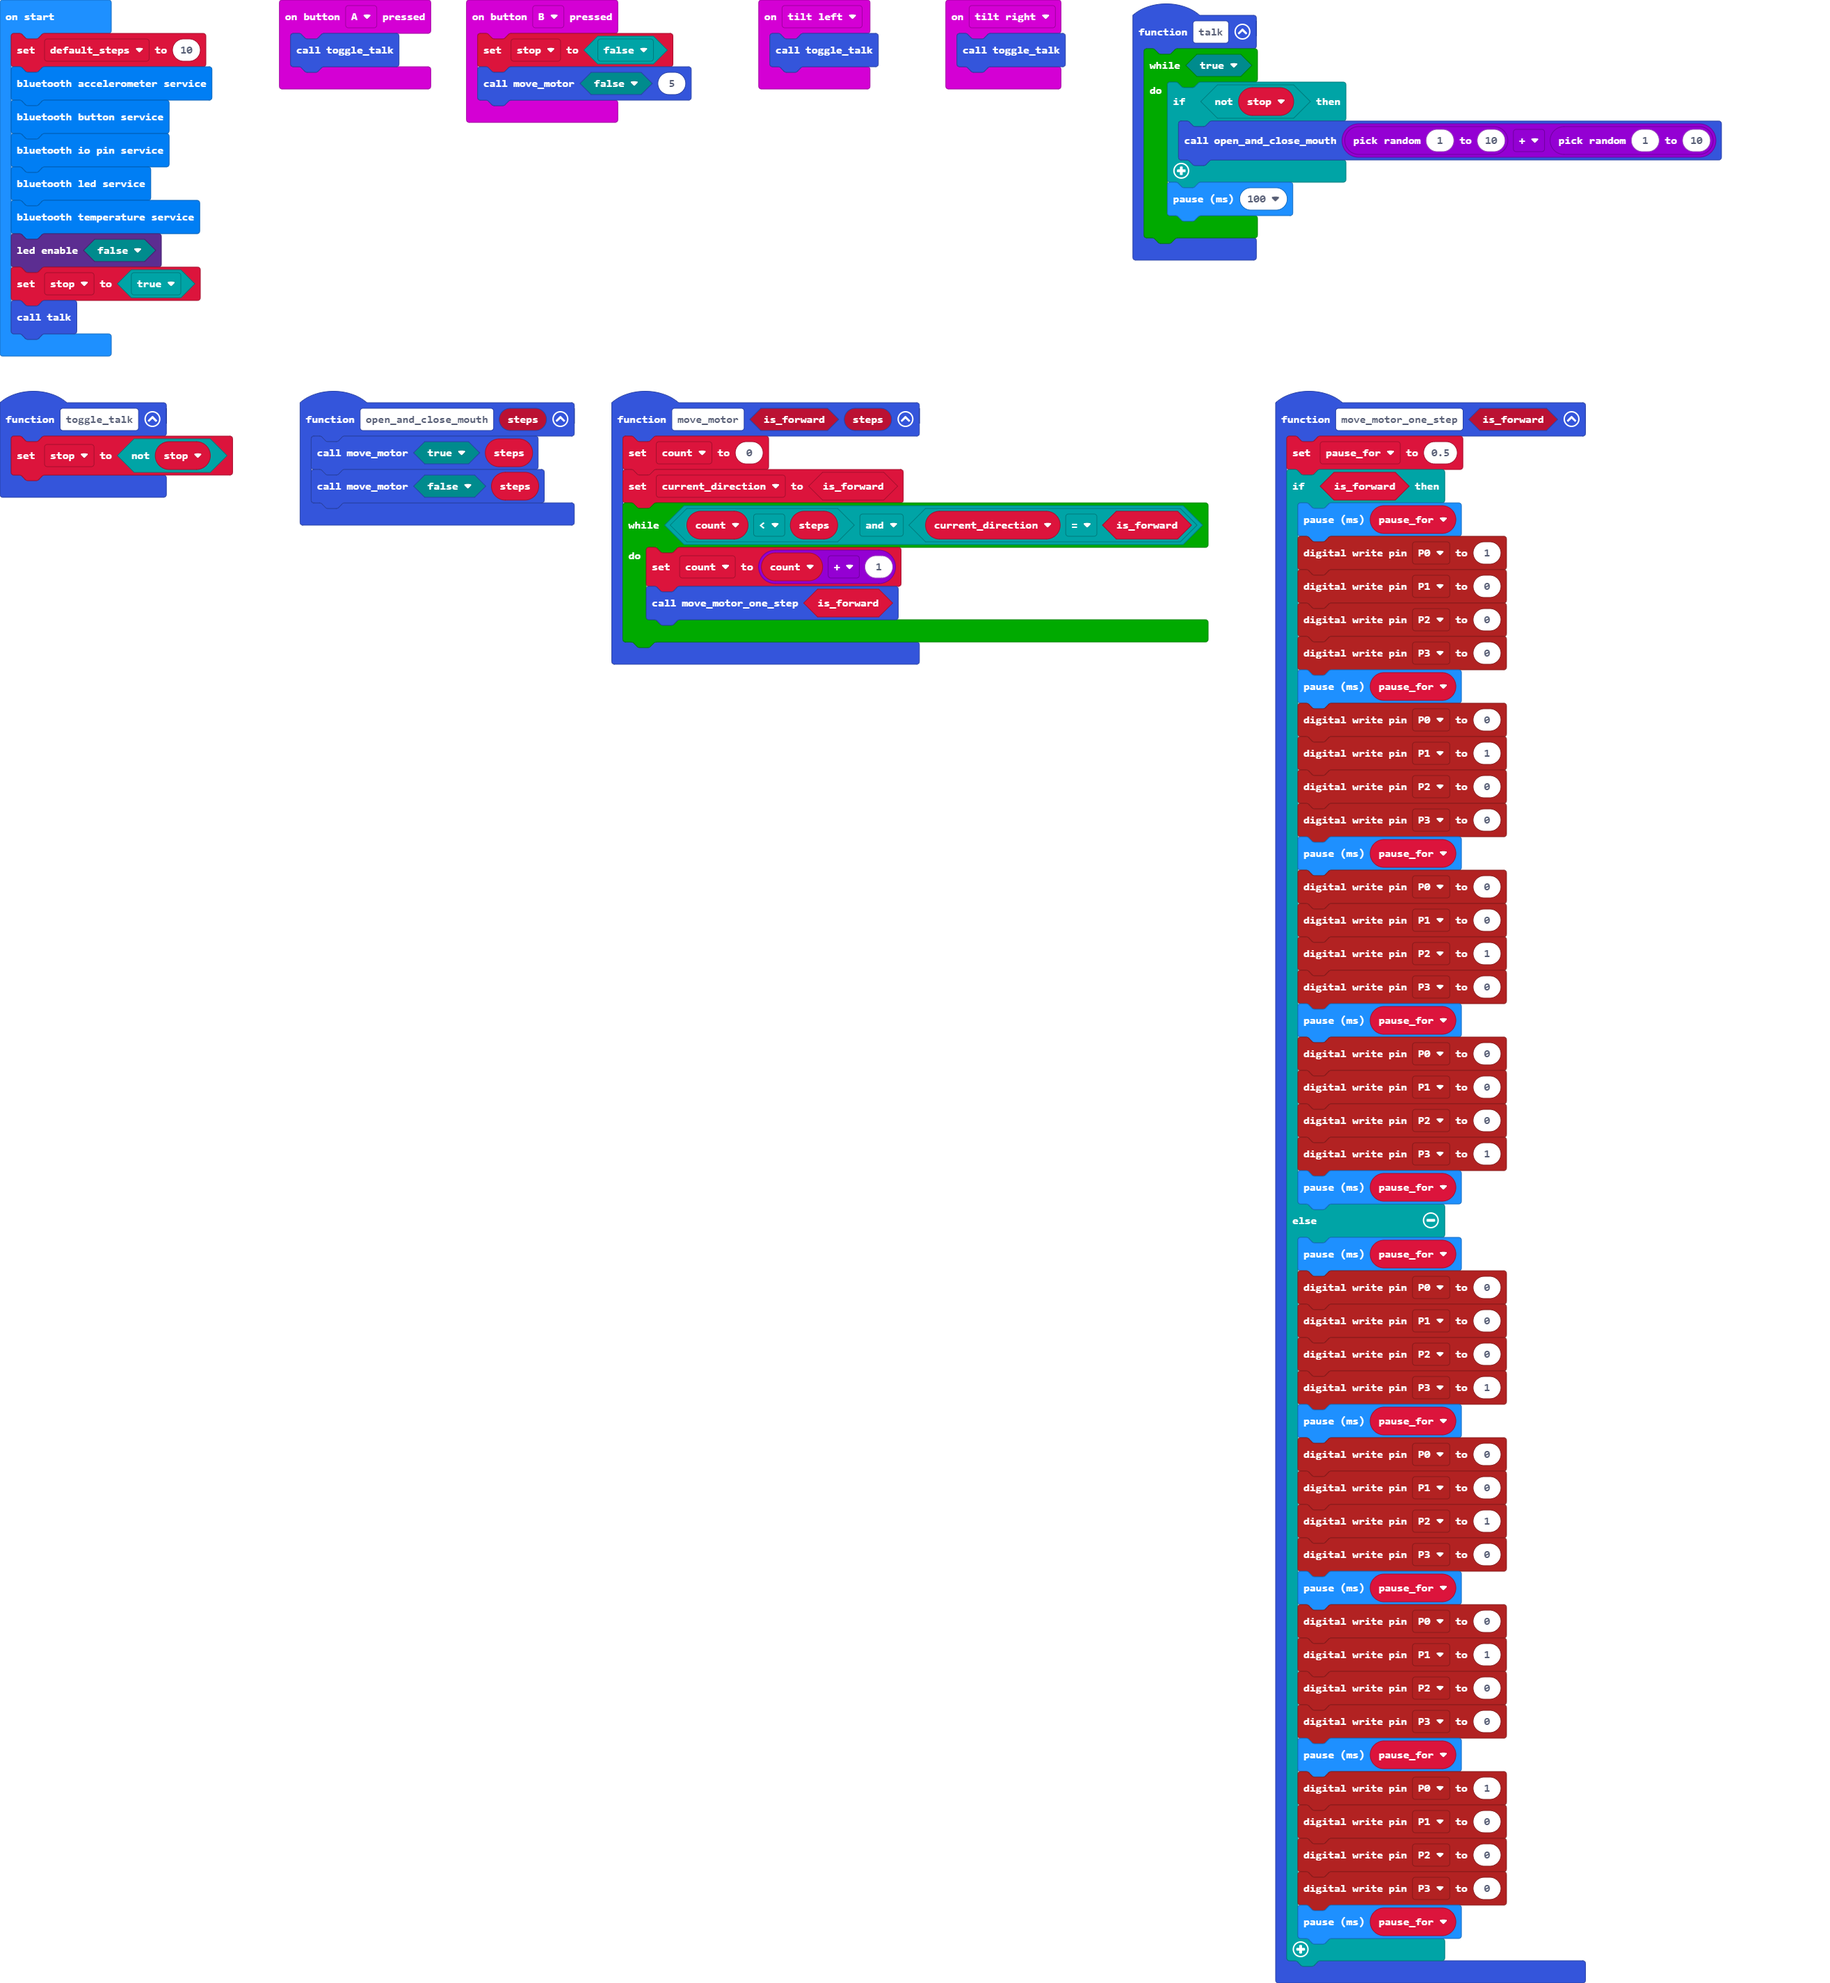
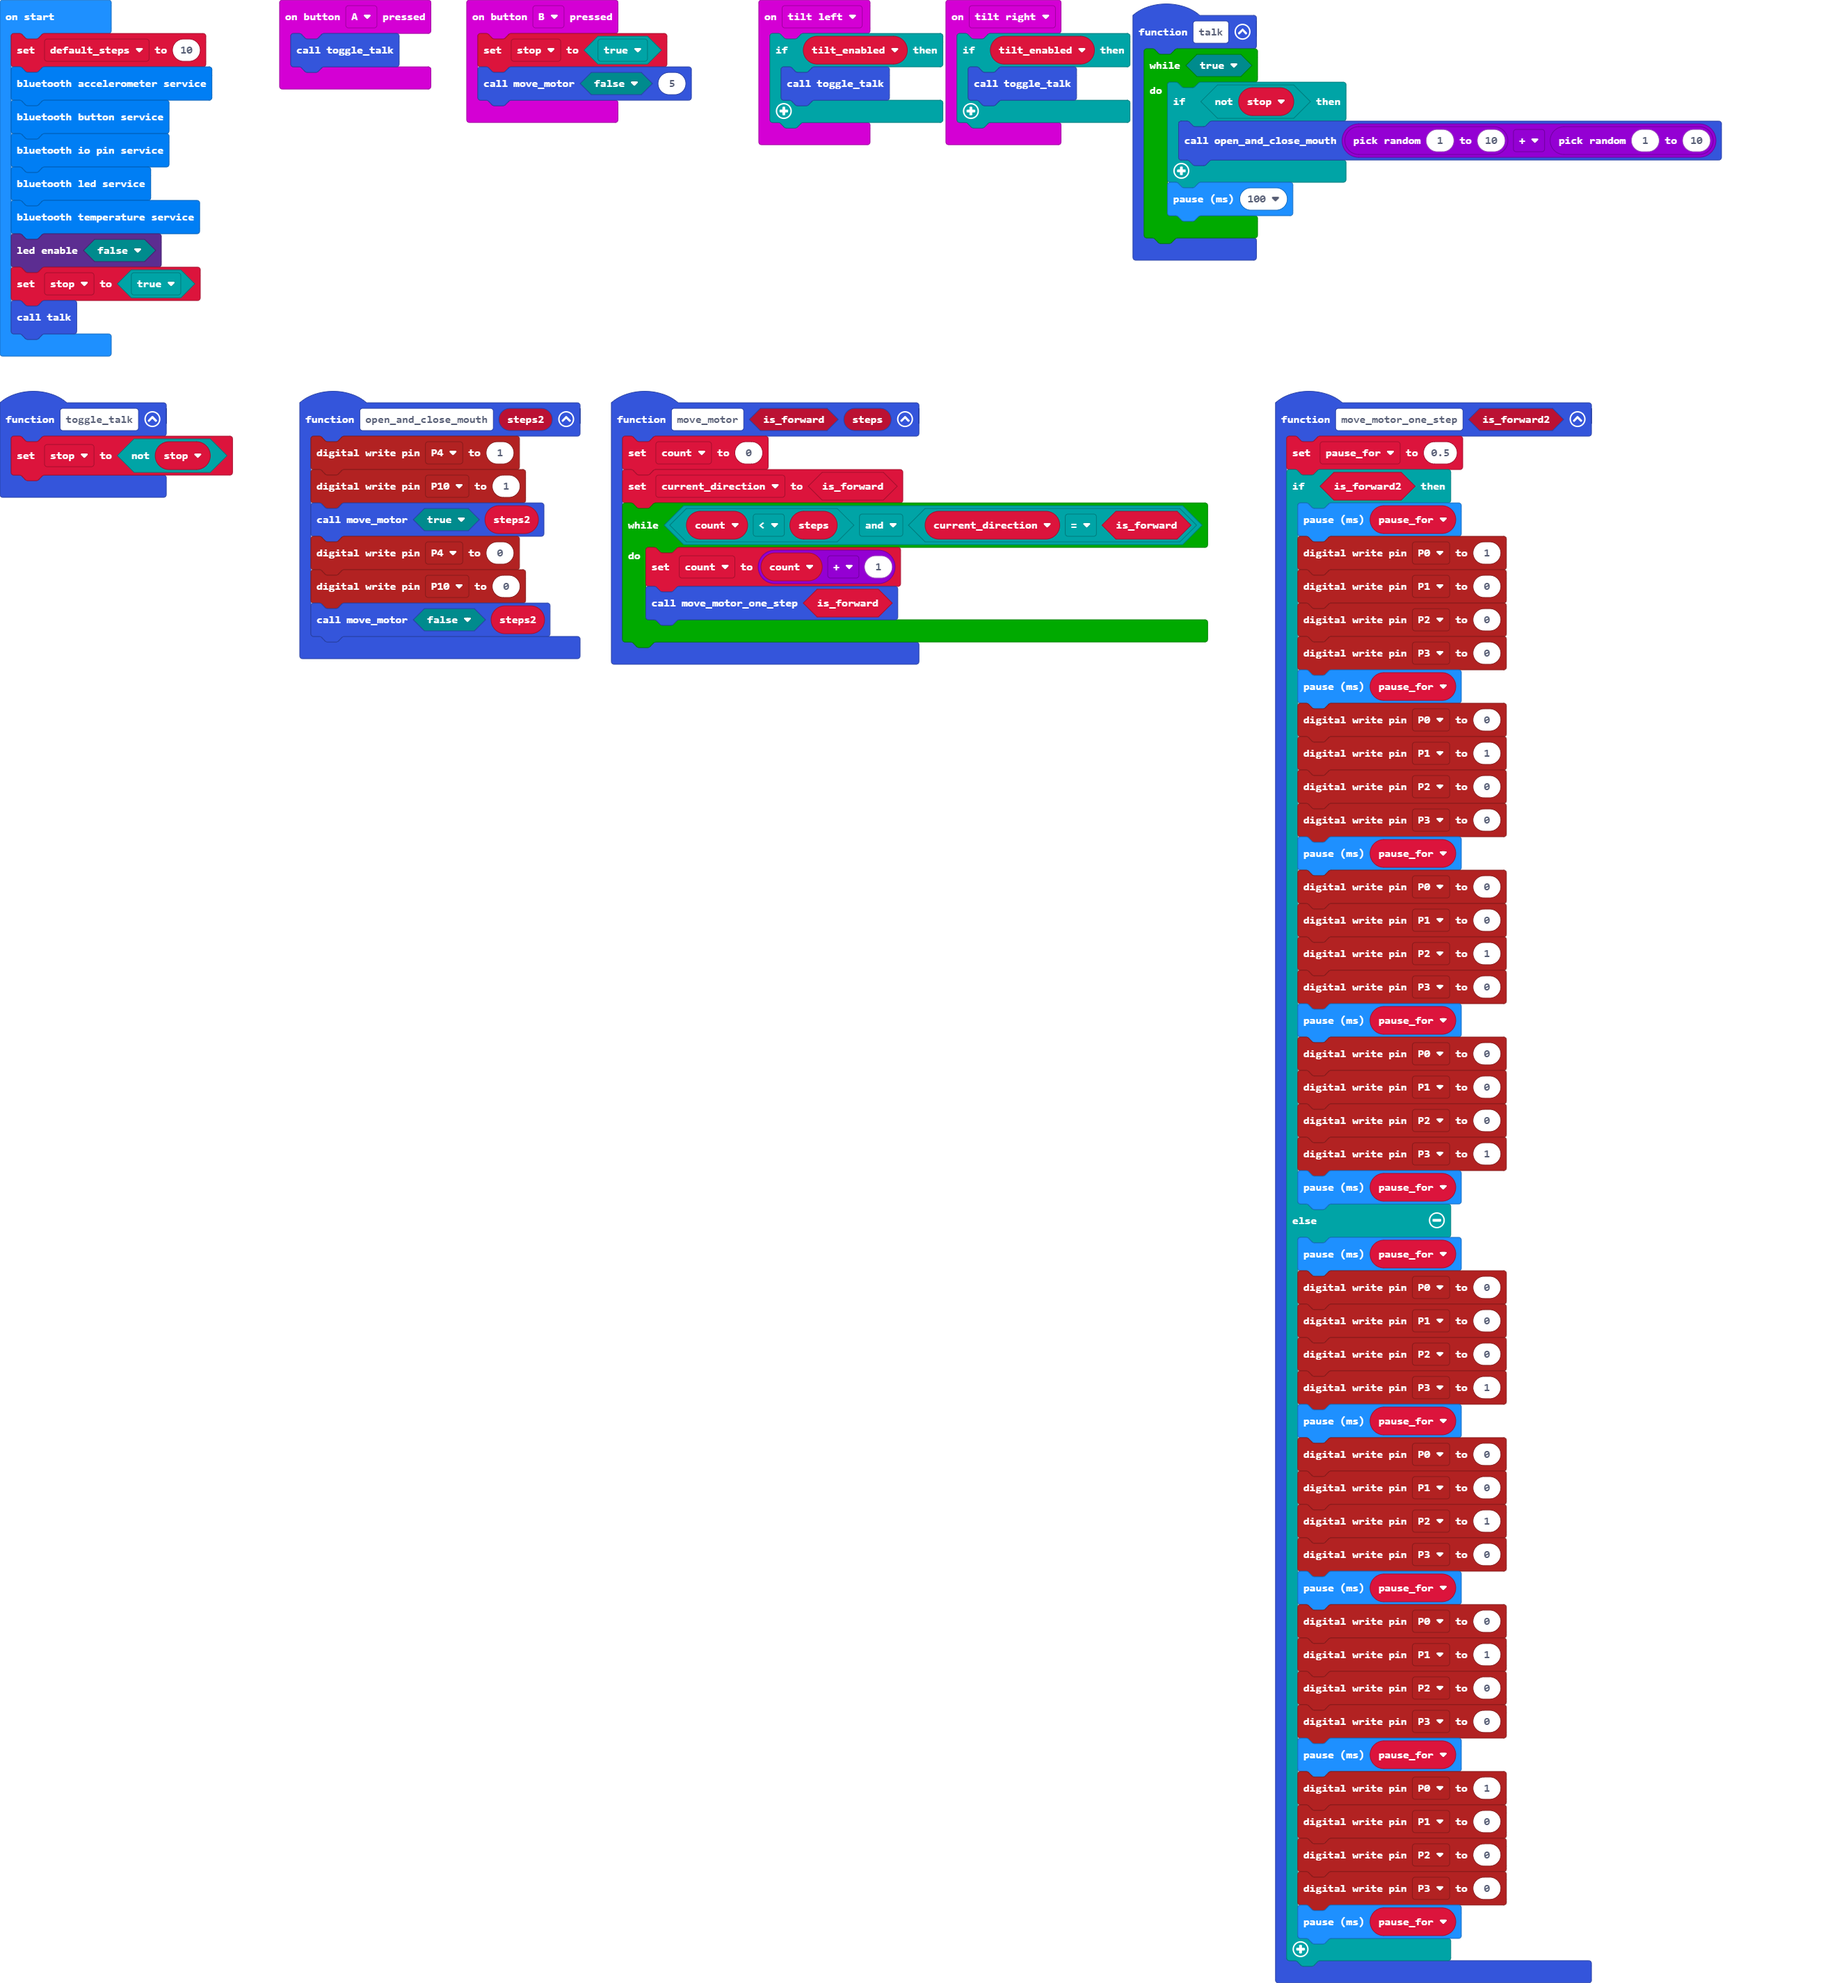
Not sure if anything changed!

diff --git a/main.ts b/main.ts
@@ -1,23 +1,3 @@
-input.onButtonPressed(Button.A, function on_button_pressed_a() {
-    toggle_talk()
-})
-input.onButtonPressed(Button.B, function on_button_pressed_b() {
-    
-    stop = true
-    move_motor(false, 5)
-})
-input.onGesture(Gesture.TiltLeft, function on_gesture_tilt_left() {
-    if (tilt_enabled) {
-        toggle_talk()
-    }
-    
-})
-input.onGesture(Gesture.TiltRight, function on_gesture_tilt_right() {
-    if (tilt_enabled) {
-        toggle_talk()
-    }
-    
-})
 function move_motor(is_forward: boolean, steps: number) {
     
     count = 0
@@ -28,6 +8,9 @@ function move_motor(is_forward: boolean, steps: number) {
     }
 }
 
+input.onButtonPressed(Button.A, function on_button_pressed_a() {
+    toggle_talk()
+})
 function move_motor_one_step(is_forward2: boolean) {
     
     pause_for = 0.5
@@ -84,6 +67,12 @@ function toggle_talk() {
     stop = !stop
 }
 
+input.onGesture(Gesture.TiltLeft, function on_gesture_tilt_left() {
+    if (tilt_enabled) {
+        toggle_talk()
+    }
+    
+})
 function talk() {
     while (true) {
         if (!stop) {
@@ -95,15 +84,30 @@ function talk() {
 }
 
 function open_and_close_mouth(steps2: number) {
+    pins.digitalWritePin(DigitalPin.P4, 1)
+    pins.digitalWritePin(DigitalPin.P10, 1)
     move_motor(true, steps2)
+    pins.digitalWritePin(DigitalPin.P4, 0)
+    pins.digitalWritePin(DigitalPin.P10, 0)
     move_motor(false, steps2)
 }
 
+input.onButtonPressed(Button.B, function on_button_pressed_b() {
+    
+    stop = true
+    move_motor(false, 5)
+})
+input.onGesture(Gesture.TiltRight, function on_gesture_tilt_right() {
+    if (tilt_enabled) {
+        toggle_talk()
+    }
+    
+})
+let tilt_enabled = 0
 let pause_for = 0
 let current_direction = false
 let count = 0
 let stop = false
-let tilt_enabled = false
 let default_steps = 10
 bluetooth.startAccelerometerService()
 bluetooth.startButtonService()
@@ -111,5 +115,5 @@ bluetooth.startIOPinService()
 bluetooth.startLEDService()
 bluetooth.startTemperatureService()
 led.enable(false)
-stop = true
+stop = false
 talk()

diff --git a/main.py b/main.py
@@ -1,23 +1,3 @@
-def on_button_pressed_a():
-    toggle_talk()
-input.on_button_pressed(Button.A, on_button_pressed_a)
-
-def on_button_pressed_b():
-    global stop
-    stop = True
-    move_motor(False, 5)
-input.on_button_pressed(Button.B, on_button_pressed_b)
-
-def on_gesture_tilt_left():
-    if tilt_enabled:
-            toggle_talk()
-input.on_gesture(Gesture.TILT_LEFT, on_gesture_tilt_left)
-
-def on_gesture_tilt_right():
-    if tilt_enabled:
-        toggle_talk()
-input.on_gesture(Gesture.TILT_RIGHT, on_gesture_tilt_right)
-
 def move_motor(is_forward: bool, steps: number):
     global count, current_direction
     count = 0
@@ -25,6 +5,10 @@ def move_motor(is_forward: bool, steps: number):
     while count < steps and current_direction == is_forward:
         count = count + 1
         move_motor_one_step(is_forward)
+
+def on_button_pressed_a():
+    toggle_talk()
+input.on_button_pressed(Button.A, on_button_pressed_a)
 
 def move_motor_one_step(is_forward2: bool):
     global pause_for
@@ -73,26 +57,44 @@ def move_motor_one_step(is_forward2: bool):
         pins.digital_write_pin(DigitalPin.P2, 0)
         pins.digital_write_pin(DigitalPin.P3, 0)
         basic.pause(pause_for)
-
 def toggle_talk():
     global stop
     stop = not (stop)
+
+def on_gesture_tilt_left():
+    if tilt_enabled:
+        toggle_talk()
+input.on_gesture(Gesture.TILT_LEFT, on_gesture_tilt_left)
 
 def talk():
     while True:
         if not (stop):
             open_and_close_mouth(randint(1, 10) + randint(1, 10))
         basic.pause(100)
-        
 def open_and_close_mouth(steps2: number):
+    pins.digital_write_pin(DigitalPin.P4, 1)
+    pins.digital_write_pin(DigitalPin.P10, 1)
     move_motor(True, steps2)
+    pins.digital_write_pin(DigitalPin.P4, 0)
+    pins.digital_write_pin(DigitalPin.P10, 0)
     move_motor(False, steps2)
 
+def on_button_pressed_b():
+    global stop
+    stop = True
+    move_motor(False, 5)
+input.on_button_pressed(Button.B, on_button_pressed_b)
+
+def on_gesture_tilt_right():
+    if tilt_enabled:
+        toggle_talk()
+input.on_gesture(Gesture.TILT_RIGHT, on_gesture_tilt_right)
+
+tilt_enabled = 0
 pause_for = 0
 current_direction = False
 count = 0
 stop = False
-tilt_enabled = False
 default_steps = 10
 bluetooth.start_accelerometer_service()
 bluetooth.start_button_service()
@@ -100,5 +102,5 @@ bluetooth.start_io_pin_service()
 bluetooth.start_led_service()
 bluetooth.start_temperature_service()
 led.enable(False)
-stop = True
+stop = False
 talk()
